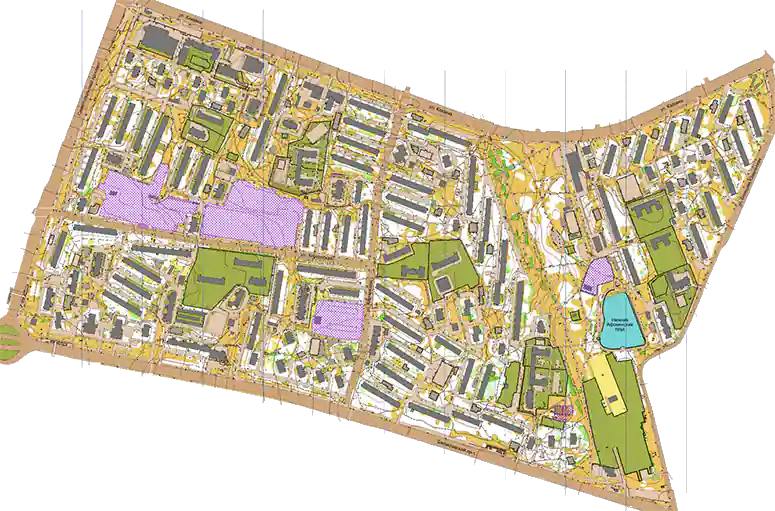
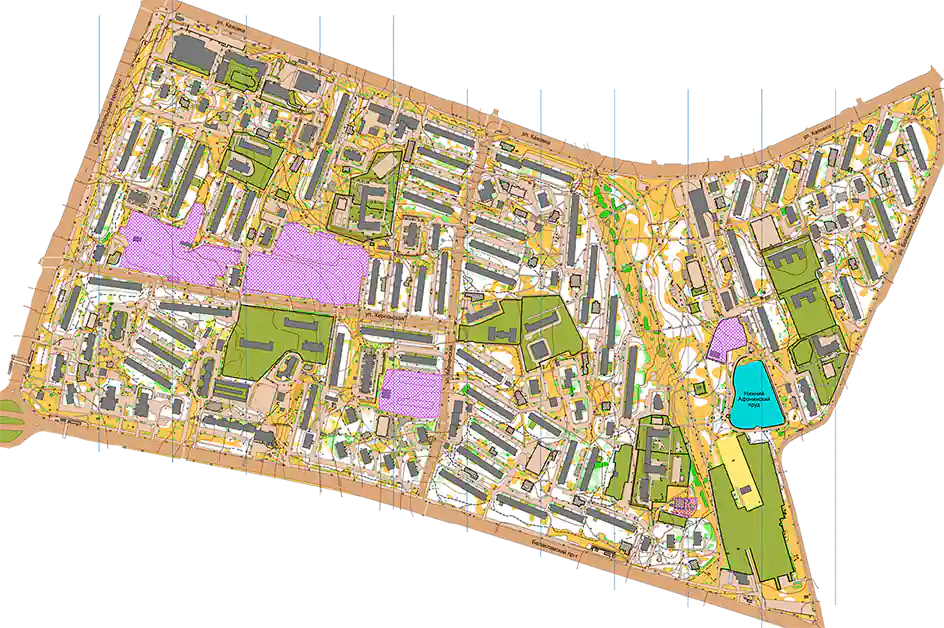
Московские карты от Калюжного.

diff --git a/js/maps-moscow.js b/js/maps-moscow.js
@@ -625,11 +625,73 @@ let moscowMaps = [
         name: 'Парк Зюзино',
         year: 2024,
         url: './maps/moscow/zjuzino_2024.webp',
-        link: 'http://o-mephi.net/cup/maps/20210529_877.jpg',
-        bounds: [[55.656950361837836, 37.566268444061286], [55.65371812066581, 37.59637355804444], [55.64573927460921, 37.56242752075196]],
+        //link: 'http://o-mephi.net/cup/maps/20210529_877.jpg',
+        link: './original_maps/moscow/zjuzino_2024_full.jpg',
+        bounds: [[55.657047203897676, 37.566311359405525], [55.653742333202146, 37.5963306427002], [55.64573927460921, 37.56242752075196]],
         author: 'KLZHNY',
         owner: 'ERMCHNKV_A',
-        types: ['ORIENT'],
+        types: ['ORIENT','PARK'],
+    },
+    {
+        name: 'Беловежская ул',
+        year: 2024,
+        url: './maps/moscow/belovezhskaya_2024.webp',
+        link: './original_maps/moscow/belovezhskaya_2024_full.jpg',
+        bounds: [[55.71636631480375, 37.39289045333863], [55.71490377333545, 37.40739583969117], [55.70471281171746, 37.38894224166871]],
+        author: 'KLZHNY',
+        owner: 'ERMCHNKV_A',
+        types: ['ORIENT','CITY'],
+    },
+    {
+        name: 'Матвеевское',
+        year: 2023,
+        url: './maps/moscow/matveevskoe_2023.webp',
+        link: './original_maps/moscow/matveevskoe_2023_full.jpg',
+        bounds: [[55.71699482819821, 37.46037483215333], [55.71410600036268, 37.49200344085694], [55.70277828397925, 37.45679140090943]],
+        author: 'KLZHNY',
+        owner: 'ERMCHNKV_A',
+        types: ['ORIENT','CITY'],
+    },
+    {
+        name: 'Медведково',
+        year: 2024,
+        url: './maps/moscow/medvedkovo_2024.webp',
+        link: './original_maps/moscow/medvedkovo_2024_full.jpg',
+        bounds: [[55.89688836733528, 37.644975185394294], [55.89708086242042, 37.66282796859742], [55.88759934462764, 37.64512538909913]],
+        author: 'KLZHNY',
+        owner: 'ERMCHNKV_A',
+        types: ['ORIENT','CITY'],
+    },
+    {
+        name: 'Речной вкз',
+        year: 2023,
+        url: './maps/moscow/rechnoy_2023.webp',
+        link: './original_maps/moscow/rechnoy_2023_full.jpg',
+        bounds: [[55.866871516902705, 37.468163967132575], [55.86486073820742, 37.487411499023445], [55.85458849027885, 37.46425867080689]],
+        author: 'KLZHNY',
+        owner: 'ERMCHNKV_A',
+        types: ['ORIENT','CITY'],
+    },
+    {
+        name: 'Ясенево',
+        year: 2024,
+        url: './maps/moscow/yasenevo_2014.webp',
+            link: './original_maps/moscow/yasenevo_2014_full.jpg',
+        bounds: [[55.624821898995314, 37.52706527709962], [55.622895534008336, 37.5434160232544], [55.613807630114515, 37.52322435379029]],
+        author: 'KLZHNY',
+        owner: 'ERMCHNKV_A',
+        types: ['ORIENT','CITY'],
+        zindex: 2
+    },
+    {
+        name: 'Экопарк "Летова тропа"',
+        year: 2022,
+        url: './maps/moscow/letovo_2022.webp',
+            link: './original_maps/moscow/letovo_2022_full.jpg',
+        bounds: [[55.5571000543419, 37.41692304611207], [55.55608060620929, 37.42868185043336], [55.55086158843829, 37.41529226303101]],
+        author: 'KLZHNY',
+        owner: 'ERMCHNKV_A',
+        types: ['ORIENT','PARK'],
     },
     {
         name: '40-й квартал Зюзина',
